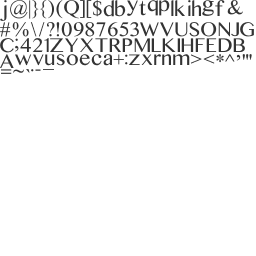
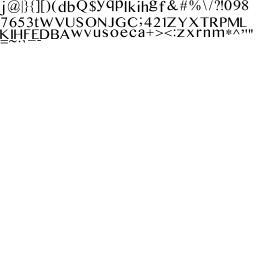
Added debug label font
Also made the non-retina display font smaller

Changed region(s): [[0.0, 0.0, 1.0, 0.3125]]

diff --git a/src/Constants/Constants.h b/src/Constants/Constants.h
@@ -16,7 +16,6 @@
 
 #define kDefaultLargeFont       @"bangla_dark.fnt"
 #define kDefaultSmallFont       @"bangla_dark_small.fnt"
-#define kDefaultDebugFont       @"bangla_dark_debug.fnt"
 
 #define kRLearningRate          0.4f
 #define kRLDiscountFactor       0.9f
@@ -28,6 +27,7 @@
 #define kRLActionIndex          1
 #define kRLQValueIndex          2
 #define KRLLearningEpisodes     15
+#define kDefaultDebugFont       @"andale_debug.fnt"
 
 #define kLemmingMovementAmount  20
 #define kLemmingFallTime        0.85f
